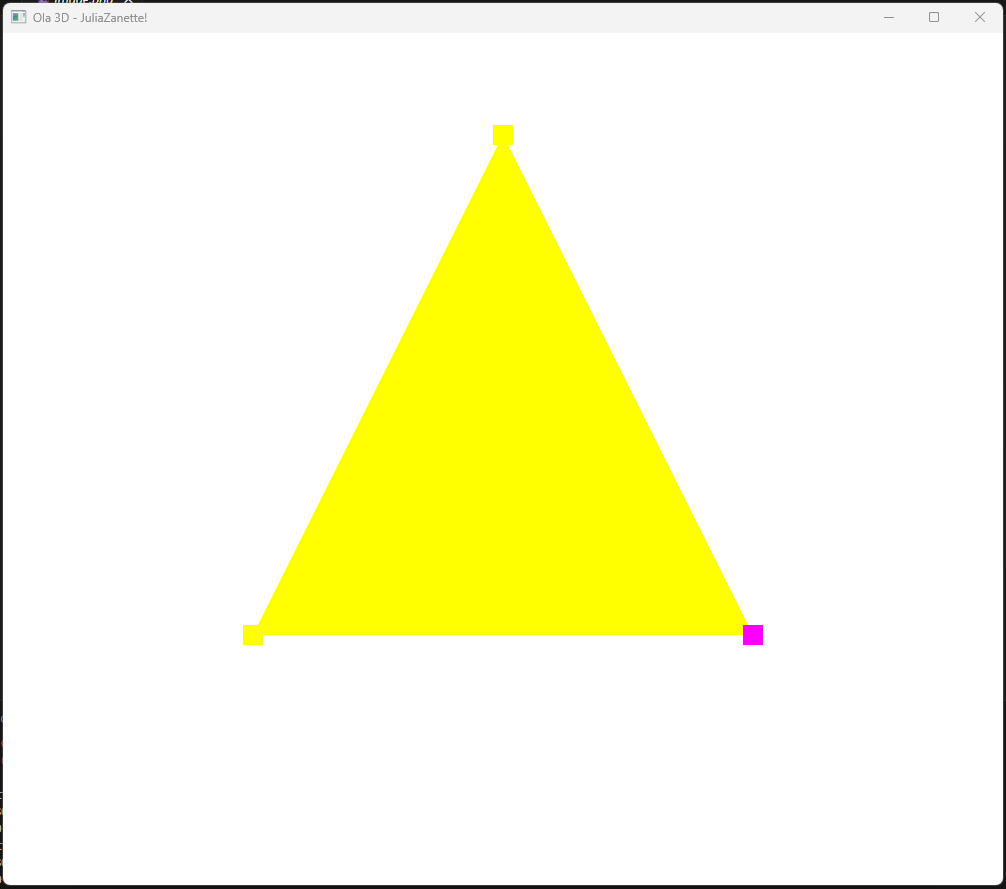
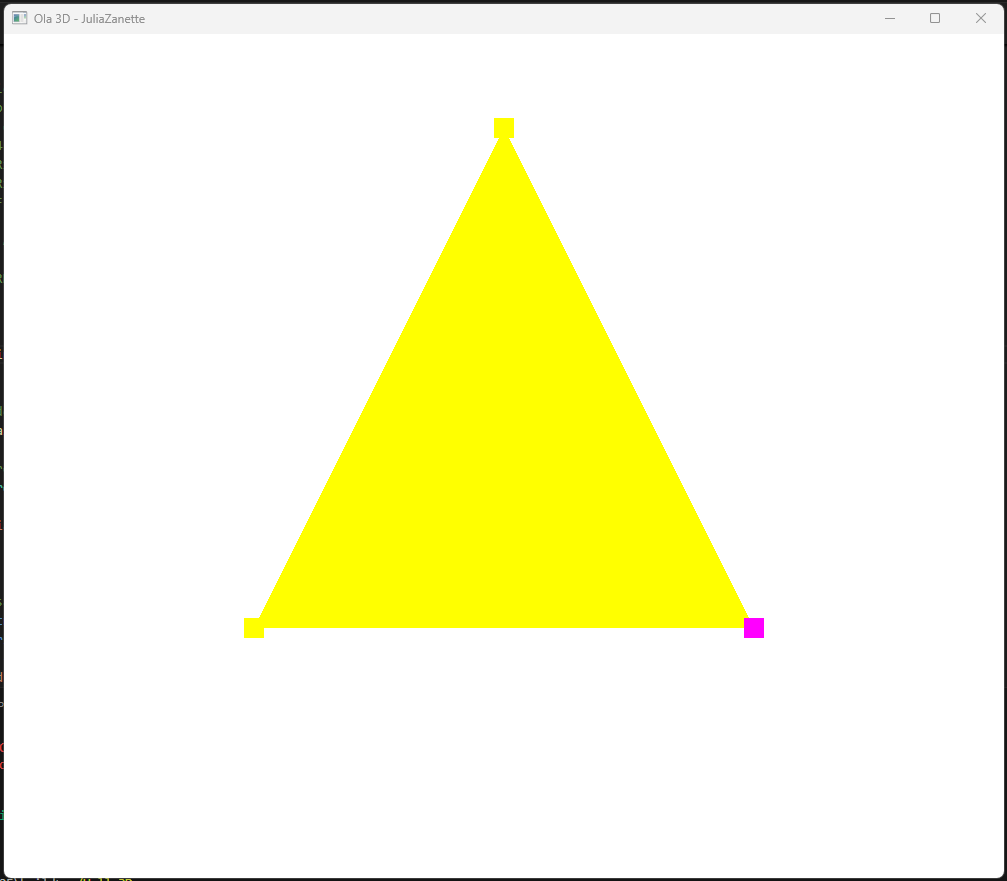
Window title correction

diff --git a/M1/Hello3D.cpp b/M1/Hello3D.cpp
@@ -78,7 +78,7 @@ int main()
 //#endif
 
 	// Criação da janela GLFW
-	GLFWwindow* window = glfwCreateWindow(WIDTH, HEIGHT, "Ola 3D - JuliaZanette!", nullptr, nullptr);
+	GLFWwindow* window = glfwCreateWindow(WIDTH, HEIGHT, "Ola 3D - JuliaZanette", nullptr, nullptr);
 	glfwMakeContextCurrent(window);
 
 	// Fazendo o registro da função de callback para a janela GLFW
